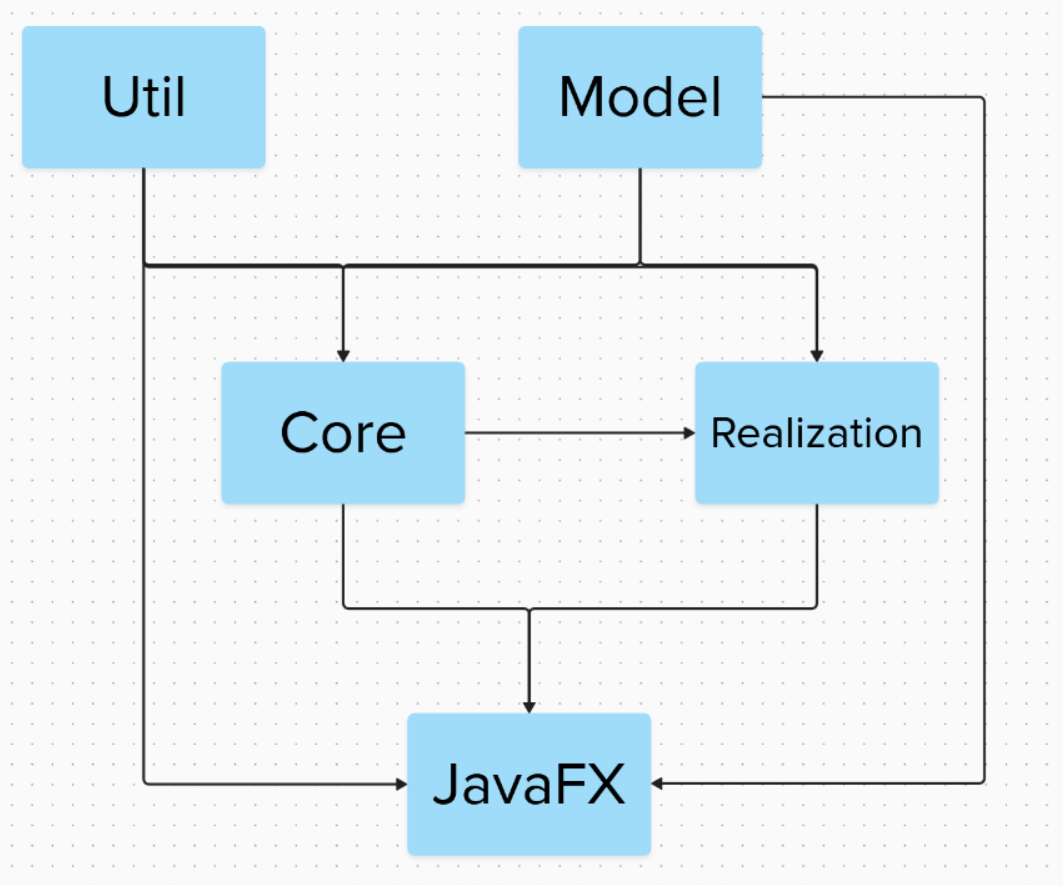
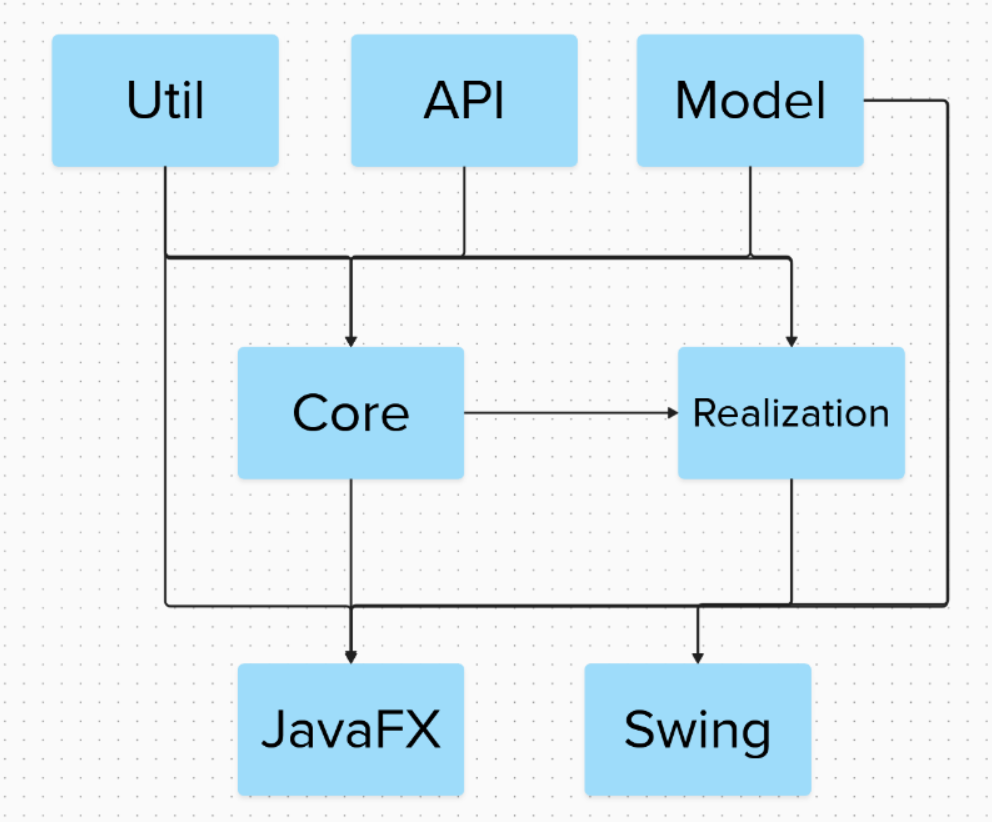
Documentation was updated

Changed region(s): [[0.0, 0.0304, 0.9688, 0.9732], [0.0938, 0.0912, 0.2188, 0.1521]]

diff --git a/documentation/build_and_execution.md b/documentation/build_and_execution.md
@@ -6,49 +6,56 @@ This project uses **Maven** as the primary build tool and relies on a **multi-mo
 
 ## ▶ Running the Application
 
-### 🗃 Jar bundled with FX libs
+### 🗃 Fat Jar 
 
-To build a jar, run from the project's root: 
+To build a jar, run from the project's root:
 
 ```bash
 mvn clean verify -Pheadless
 ```
 
-After a successful build the application JAR can be launched manually:
+After a successful build the JARs can be launched manually:
+
+*JavaFX*
 ```bash
-java -jar modules/javafx/target/javafx-1.0-SNAPSHOT.jar
+java -jar modules/javafx/target/javafx-1.0-SNAPSHOT-fat.jar
 ```
+
+*Java Swing*
+```bash
+java -jar modules/swing/target/swing-1.0-SNAPSHOT-fat.jar
+```
+
+> ⚠ Included UI render components are platform specific, so generated jar is
+> not a multi-platform. Generated under Linux, it would not run under Windows
+> and *vice versa*
 
 #### 📋 Runtime Requirements
 
-Generated jar doesn't include a bundled JVM, but, *because JavaFX libraries 
-aren't part of the JRE anymore, they are added to executable jar*, which blow 
-it size, through still keep it fit and provide the ability to launch application 
-on systems, having java9+ runtime. 
-
-> ⚠ Included JavaFX components are platform specific, so generated jar is 
-> not a multi-platform. Generated under Linux, it would not run under Windows 
-> and *vice versa*
+Generated jar include a bundled JVM, which blow 
+it size, through provide the ability to launch application 
+on systems without java runtime or additional libraries.
 
 *JavaFX's libraries for a jar are taken from the
 Maven dependencies*, not from the system path, to ensure, that every developer
 have the same runtime environment
 
-To run the application, the environment must provide only
-compatible **java21+ version**
-
 ### 🗃 Thin Jar
+
+> ⚠ Available only gor JavaFX version
 
 To build a jar without additional dependencies, run from the root:
 
 ```bash
-mvn clean verify -PexcludeFxDeps
+mvn clean verify
 ```
 
 After a successful build the application JAR can be launched manually:
 ```bash
 java -jar modules/javafx/target/javafx-1.0-SNAPSHOT.jar
 ```
+
+Used mostly for *JPackager*
 
 #### 📋 Runtime Requirements
 
@@ -61,14 +68,28 @@ system, as long as it have **preinstalled java21+ and openjfx21+**
 
 Project can be bundled via **Jpackager**, called on *verify* step if one 
 of the dedicated maven's profiles activated:
-- package-installer - created an installer, but do **not** automatically install the app into system
+
+**JavaFX**
+- *package-fx-installer* - created an installer, but do **not** automatically install the app into system
   ```bash
-  mvn clean verify -Ppackage-installer
+  mvn clean verify -Ppackage-fx-installer
   ```
   
-- package-app-image - create a runtime image
+- *package-fx-app-image* - create a runtime image
   ```bash
-  mvn clean verify -Ppackage-app-image
+  mvn clean verify -Ppackage-fx-app-image
+  ```
+
+**Java Swing**
+
+- *package-swing-installer* - created an installer, but do **not** automatically install the app into system
+  ```bash
+  mvn clean verify -Ppackage-fx-installer
+  ```
+
+- *package-swing-app-image* - create a runtime image
+  ```bash
+  mvn clean verify -Ppackage-fx-app-image
   ```
 
 Generated output *can be founded at /dist package*. 
@@ -166,9 +187,10 @@ Not for using with maven's commands
 
 ### Build profiles
 
-- *excludeFxDeps*
-- *package-installer*
-- *package-app-image*
+- *package-fx-installer*
+- *package-fx-app-image*
+- *package-swing-installer*
+- *package-swing-app-image*
 
 ### Test Profiles
 

diff --git a/documentation/gui_features.md b/documentation/gui_features.md
@@ -1,11 +1,11 @@
 ## 🎨 GUI Features & Interaction Model
 
 This document describes the **GUI structure, behavior, and interaction model** of the application.  
-It intentionally avoids focusing on JavaFX as a technology and instead explains **how the GUI is designed 
+It intentionally avoids focusing on JavaFX or Swing as a technology and instead explains **how the GUI is designed 
 and behaves conceptually**.
 
-The GUI package is designed to be **platform-agnostic**. JavaFX is only one realization; the same 
-concepts are intended to be reusable for other UI frameworks (e.g. **Swing, Qt**).
+The GUI package is designed to be **platform-agnostic**. There are two realizations: 
+*JavaFX* and *Swing*. The same concepts are intended to be reusable for other UI frameworks (e.g. **Qt**).
 
 ---
 
@@ -29,10 +29,38 @@ Its logic is organized into **explicit layers**, each with a well-defined respon
     - Selection frames, drag previews, insertion hints, etc.
     - May render temporary or auxiliary elements
 
-Each canvas layer is itself **hierarchical**. Layers can contain **sub-layers**, forming a recursive structure that 
+Each canvas layer is itself **hierarchical**. Layers can contain **sub-layers**, forming a recursive structure that
 explicitly controls render order and visual stacking of elements. This makes ordering rules deterministic and 
 manageable even as the number of visual elements grows. Direct manipulation of layer position is intentionally limited: 
 only elements belonging to the shapes layer can change their layer placement explicitly.
+
+## 🧪 GUI Feature: Multi-Platform UI Experiment
+
+I have long been interested in how difficult it would be to migrate an application 
+from one UI platform to another—especially given how many Swing applications still 
+wait for a modern UI.
+
+Surprisingly, the migration itself was not as hard as expected. Separating components 
+and avoiding logic duplication turned out to be very manageable. Almost all 
+logic—including most UI behavior—is shared and reused across platforms. This approach 
+proved highly effective: the overall structure remained nearly unchanged, and very 
+few bugs appeared during the migration.
+
+Rendering did not cause a lot of problem too. To avoid duplicating drawing logic, 
+a dedicated rendering API was introduced and moved into a separate api module, while 
+the core logic remained platform-agnostic. This allowed both JavaFX and Swing 
+implementations to reuse the same rendering intent with different backends.
+
+The challenges came from differences in platform lifecycles, event handling, and 
+underlying behavior. JavaFX follows a frame-driven rendering model, while Swing 
+relies on passive repainting and the EDT. Some UI and UX aspects were sensitive 
+to these differences, but they were resolved.
+
+The most unresolved area is markup and styling. Swing lacks native CSS support, 
+and defining layouts and styles purely in code is verbose and difficult to maintain. 
+Ideally, UI appearance should come from a single declarative source. This remains 
+an open problem, and as a result, the appearance sometimes too primitive in 
+realization
 
 ### 🖱 Input Handling
 

diff --git a/documentation/module_structure.md b/documentation/module_structure.md
@@ -8,9 +8,13 @@ The goal of this structure is to keep the core logic independent from UI framewo
 At a high level, the project consists of the following modules:
 - **core** — Application logic and business rules
 - **model** — Domain data structures and pure model logic
-- **javafx** — JavaFX-based user interface and platform-specific components
 - **realization** — orchestration, asynchronization, DI, etc
 - **util** — Shared utilities and technical helpers
+- **api** - Contracts to unbind application components from 
+  specific realizations. Currently only used for graphics platforms.
+- **platform** - aggregator module for GUI platform modules 
+  - **javafx** 
+  - **swing**
 
 Dependencies generally flow from higher-level policy to lower-level implementation.
 ![Selection](Screenshot(22).png)
@@ -53,6 +57,34 @@ The module remains independent of platform-specific parts.
 
 From an architectural perspective, this module represents the policy and behavior of the application.
 
+## 🧩 API Module
+
+The api module defines platform-independent UI **contracts** and abstractions used by all graphical implementations.
+
+📦 Typical contents:
+- Rendering and drawing interfaces
+- Input and interaction contracts
+
+🎯 Key responsibilities:
+- Enabling multiple UI implementations without code duplication
+
+🚫 Does not depend on any other module
+
+## 🧱 Platform Module
+
+The platform module is an **aggregator** for platform-specific UI implementations.
+
+📦 Typical contents:
+- Maven aggregation and shared build configuration
+- Common build and packaging logic
+
+🔗 Dependencies:
+
+(none — aggregator module)
+
+This module contains no production code and exists purely to structure, 
+ and configure platform-specific implementations.
+
 ## 🎨 JavaFX Module
 
 The javafx module contains all JavaFX-specific code and acts as the primary UI layer of the application.
@@ -78,6 +110,39 @@ The javafx module contains all JavaFX-specific code and acts as the primary UI l
 - util
 
 This module is intentionally isolated so that UI concerns do not leak into the core logic.
+
+## 🪟 Swing Module
+
+The swing module contains all Swing/AWT-specific code 
+and provides a complete alternative UI implementation.
+
+📦 Typical contents:
+- Swing components and panels
+- Custom renderers and painters
+- Event handling and input translation
+- Swing-based application launcher
+
+🎯 Key responsibilities:
+- Rendering the application using Swing/AWT
+- Handling user input via Swing event mechanisms
+- Mapping Swing events to domain actions
+- Providing a functional UI without JavaFX dependencies
+
+🔗 Dependencies:
+
+api
+
+core
+
+model
+
+realization
+
+util
+
+This module demonstrates that the application can be ported 
+to a different UI toolkit without duplicating logic or relying 
+on hybrid solutions like JFXPanel.
 
 ## 🧬 Realization Module
 

diff --git a/README.md b/README.md
@@ -35,17 +35,25 @@ with basic shapes on a canvas. Users can:
 - edit visual properties (position, size, color)
 - interact via mouse or keyboard
 - perform copy, paste and cut operations
+- select multiple shapes holding 'ctrl' or switch between shapes under 
+  the cursor by shift + right click
 
 Shapes are selectable, resizable, and draggable. The interface includes 
 a property panel, layer's tree with a shape lists, and toolbar.
 
-![Selection](documentation/screenshot_0.png)
+&emsp;**JavaFX**&emsp;&emsp;&emsp;&emsp;&emsp;&emsp;&emsp;&emsp;
+&emsp;&emsp;&emsp;&emsp;&emsp;&emsp;&emsp;&emsp;&emsp;&emsp;&emsp;
+&emsp;&emsp;&emsp;&emsp;&emsp;&emsp;&emsp;&emsp;**Java Swing**
+
+<img src="documentation/screenshot_0.png" align="left" width="400" hspace="10"/>
+<img src="documentation/screenshot_2.png" align="left" width="400" hspace="20"/>
+<br clear="left"/>
 
 ---
 
 ## Tech Stack
 
-#### 💼 Project: Java, JavaFX, Google Guice, Logback, Maven, Lombock 
+#### 💼 Project: Java, JavaFX, Java Swing, Google Guice, Logback, Maven, Lombock 
 #### 📋 Tests: JUnit, Mockito, Cucumber, TestFX, Monocle
 
 ---
@@ -57,6 +65,11 @@ a property panel, layer's tree with a shape lists, and toolbar.
 - A developed **domain model**, kept independent from UI and infrastructure concerns
 - **Events orchestration** separated from business logic, avoiding UI-driven control flow
 - Clear boundaries between **synchronous and asynchronous execution**, explicitly modeled and kept out of core logic
+
+### 🏗 Multi-platform UI architecture
+- Demonstrates how a single application architecture can target **multiple GUI toolkits** (*JavaFX* and *Swing*) 
+  without UI embedding via JFXPanel or SwingNode, platform hacks, or duplicated business logic. The implementation 
+  avoids element duplication - almost all components, including the canvas logic, are shared across platforms
 
 ### 🔌 Dependency Management
 - **Dependency Injection (Guice)**, including runtime bindings, test-specific configuration, pre-initialization 
